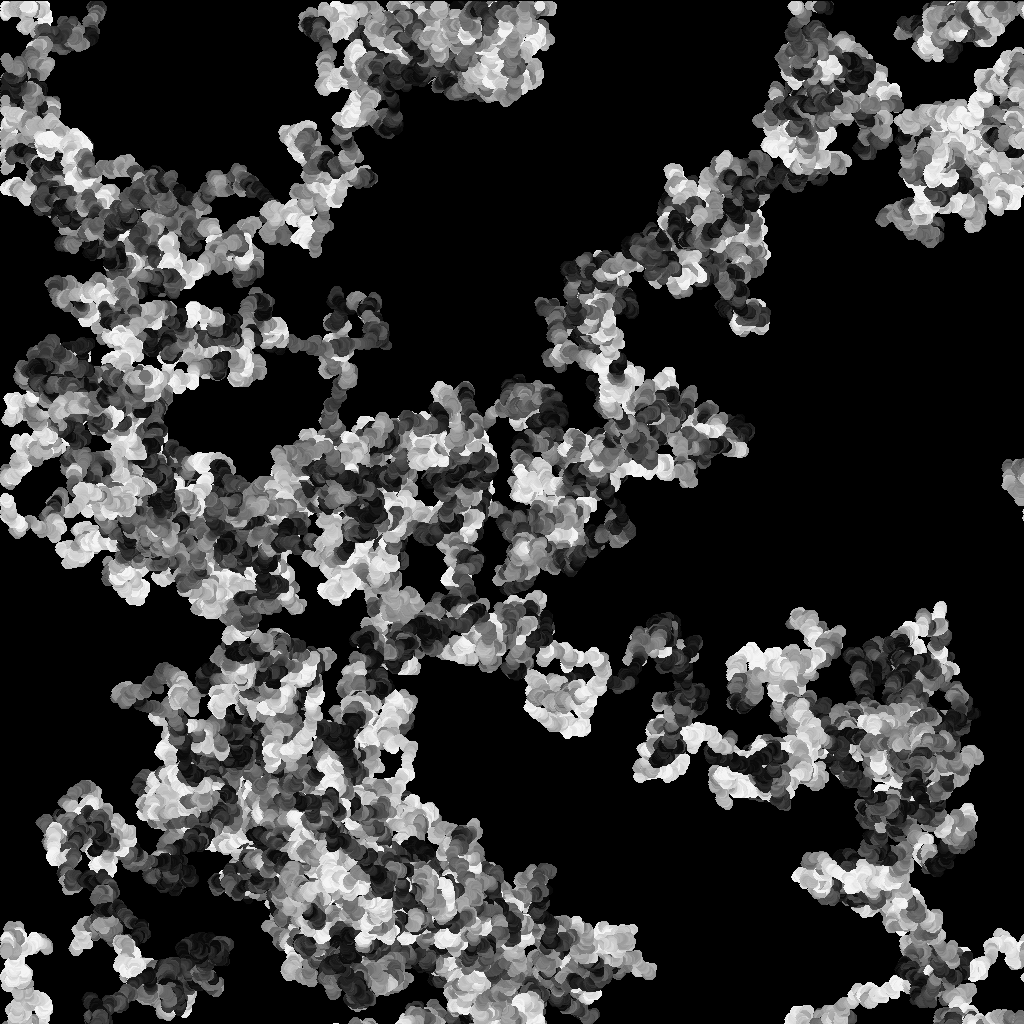
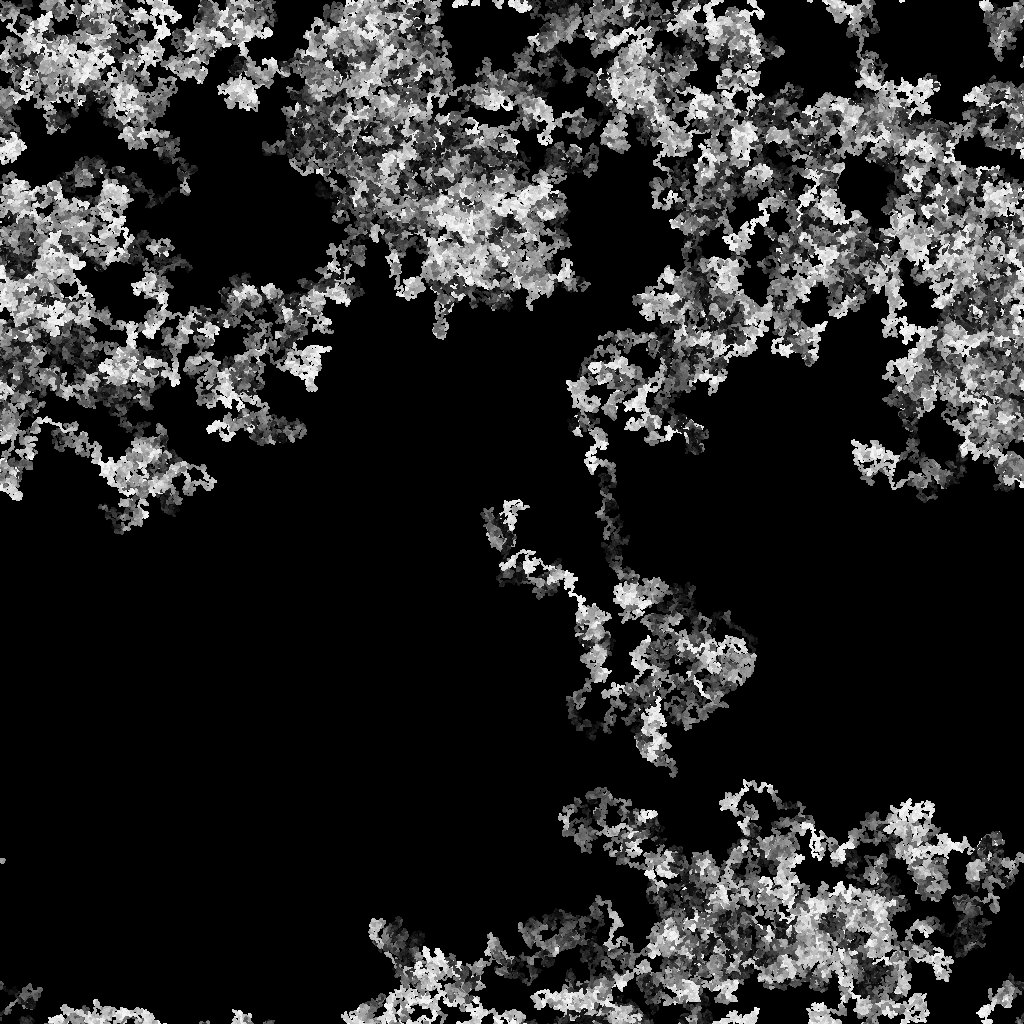
Impovements

diff --git a/imageGenerator/src/com/company/Main.java b/imageGenerator/src/com/company/Main.java
@@ -49,8 +49,8 @@ public class Main {
         int a = (int)(Math.random()*250);
 
         // create a circle with black
-        int x = height/2;
-        int y = width/2;
+        int x = width/2;
+        int y = height/2;
 
         for(int i = 0; i < args.length; i++){
             if(args[i].equals("-r")){
@@ -118,7 +118,7 @@ public class Main {
                 y = height-1;
             }
 
-            g2d.fillOval(x,y,10,10);
+            g2d.fillRect(x,y,2,2);
         }
 
         // Disposes of this graphics context and releases any system resources that it is using.
